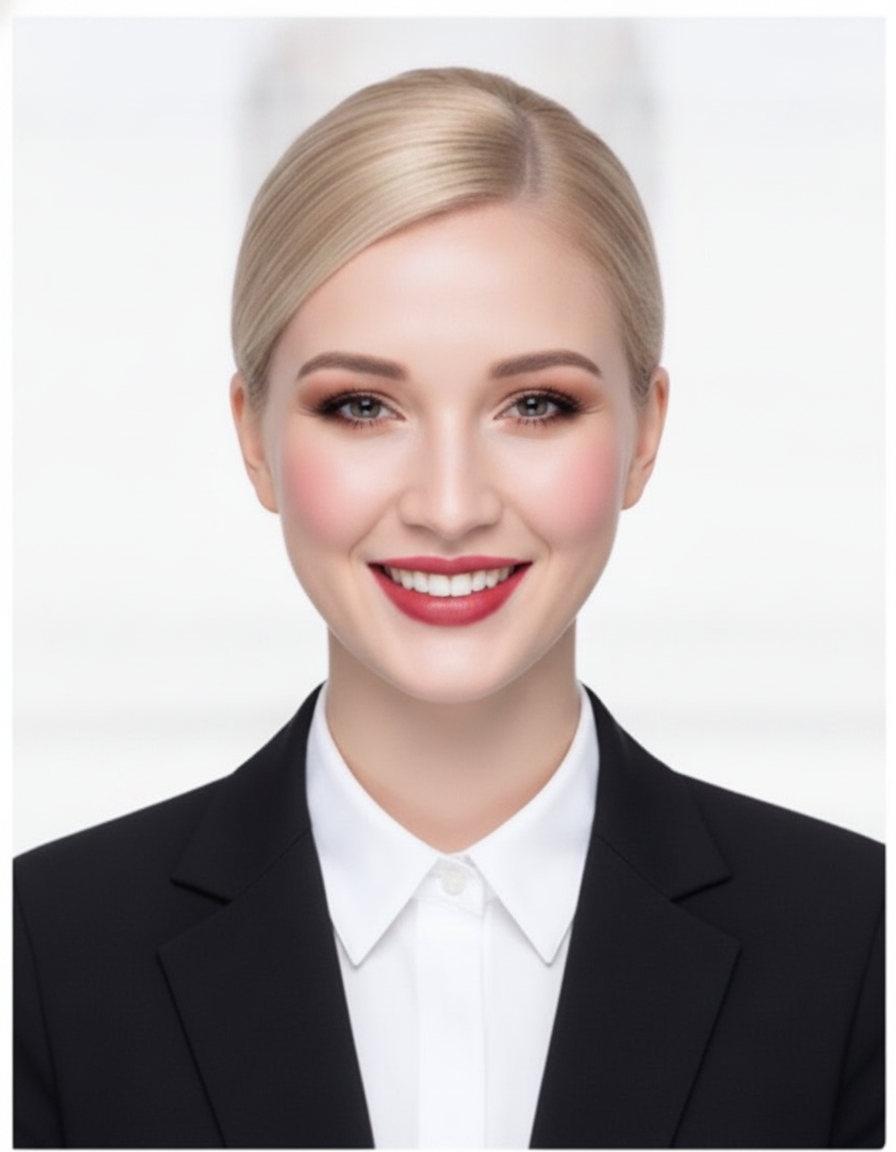
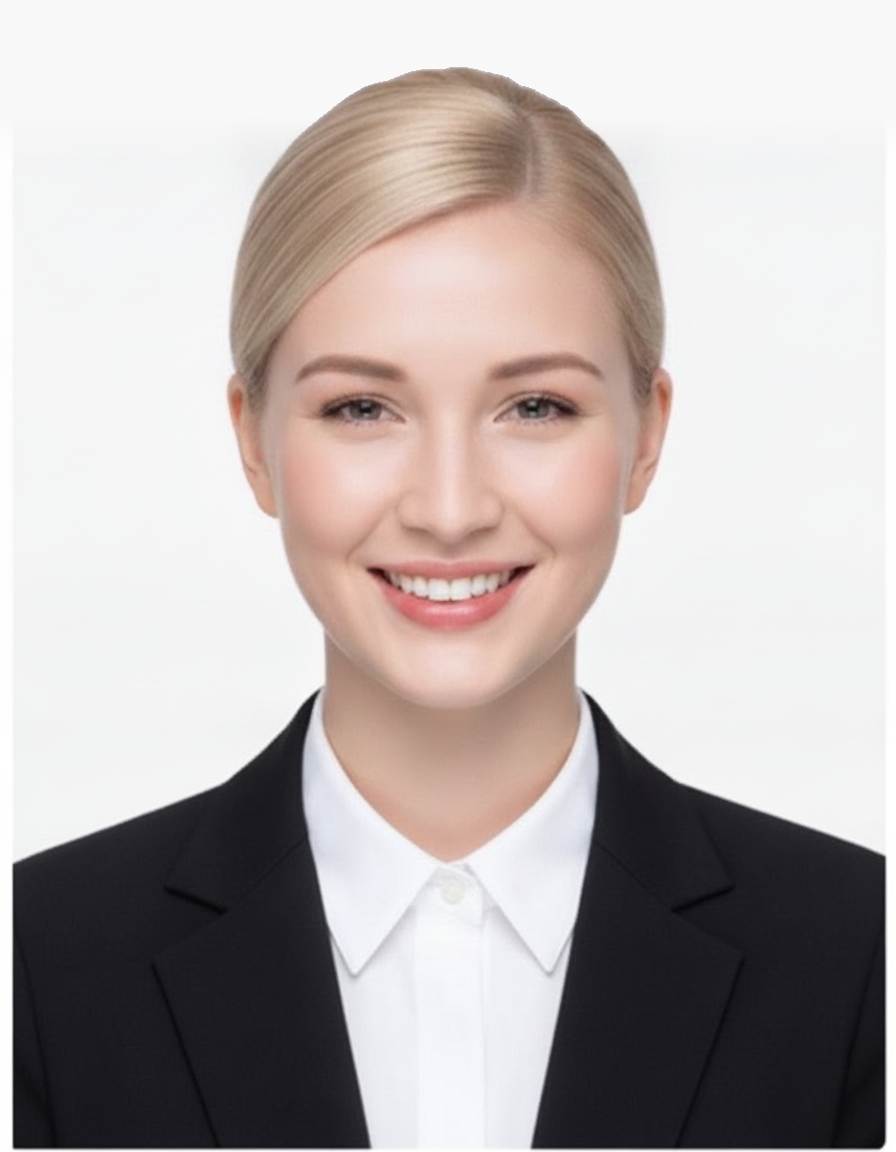
메이크업 애프터 톤다운(볼터치↓) + 배경 얼룩 제거
- 애프터 화장을 과하지 않게 조정: 소프트 로즈 립 + 라이트 아이섀도, 볼터치 대폭 축소.
- 배경 위쪽 회색 얼룩 제거해 깨끗한 순백 배경으로. 셔츠 카라 유지.
- 썸네일 재캡처 + 캐시버스트 v5.

diff --git a/practice-foreign-en.html b/practice-foreign-en.html
@@ -213,7 +213,7 @@ footer{padding:50px 5%;background:var(--navy);color:rgba(255,255,255,0.6);text-a
   </a>
 
   <a class="hub-card" href="image-check-en.html?photo=images/cv-face-western.png#makeupCard">
-    <div class="hub-vis" style="padding:8px;background:#F7EFDD;"><img src="images/shot-makeup-en.png?v=4" style="width:100%;height:100%;object-fit:contain;border-radius:8px;display:block;" alt="Makeup try-on — lip and eyeshadow before/after"></div>
+    <div class="hub-vis" style="padding:8px;background:#F7EFDD;"><img src="images/shot-makeup-en.png?v=5" style="width:100%;height:100%;object-fit:contain;border-radius:8px;display:block;" alt="Makeup try-on — lip and eyeshadow before/after"></div>
     <div class="hub-num">Step 02</div>
     <div class="hub-title">Makeup Try-On · Find Your Colors</div>
     <div class="hub-desc">Apply lipstick, eyeshadow and eyeliner to your own face and find the shades that suit you. Compare before and after instantly.</div>
